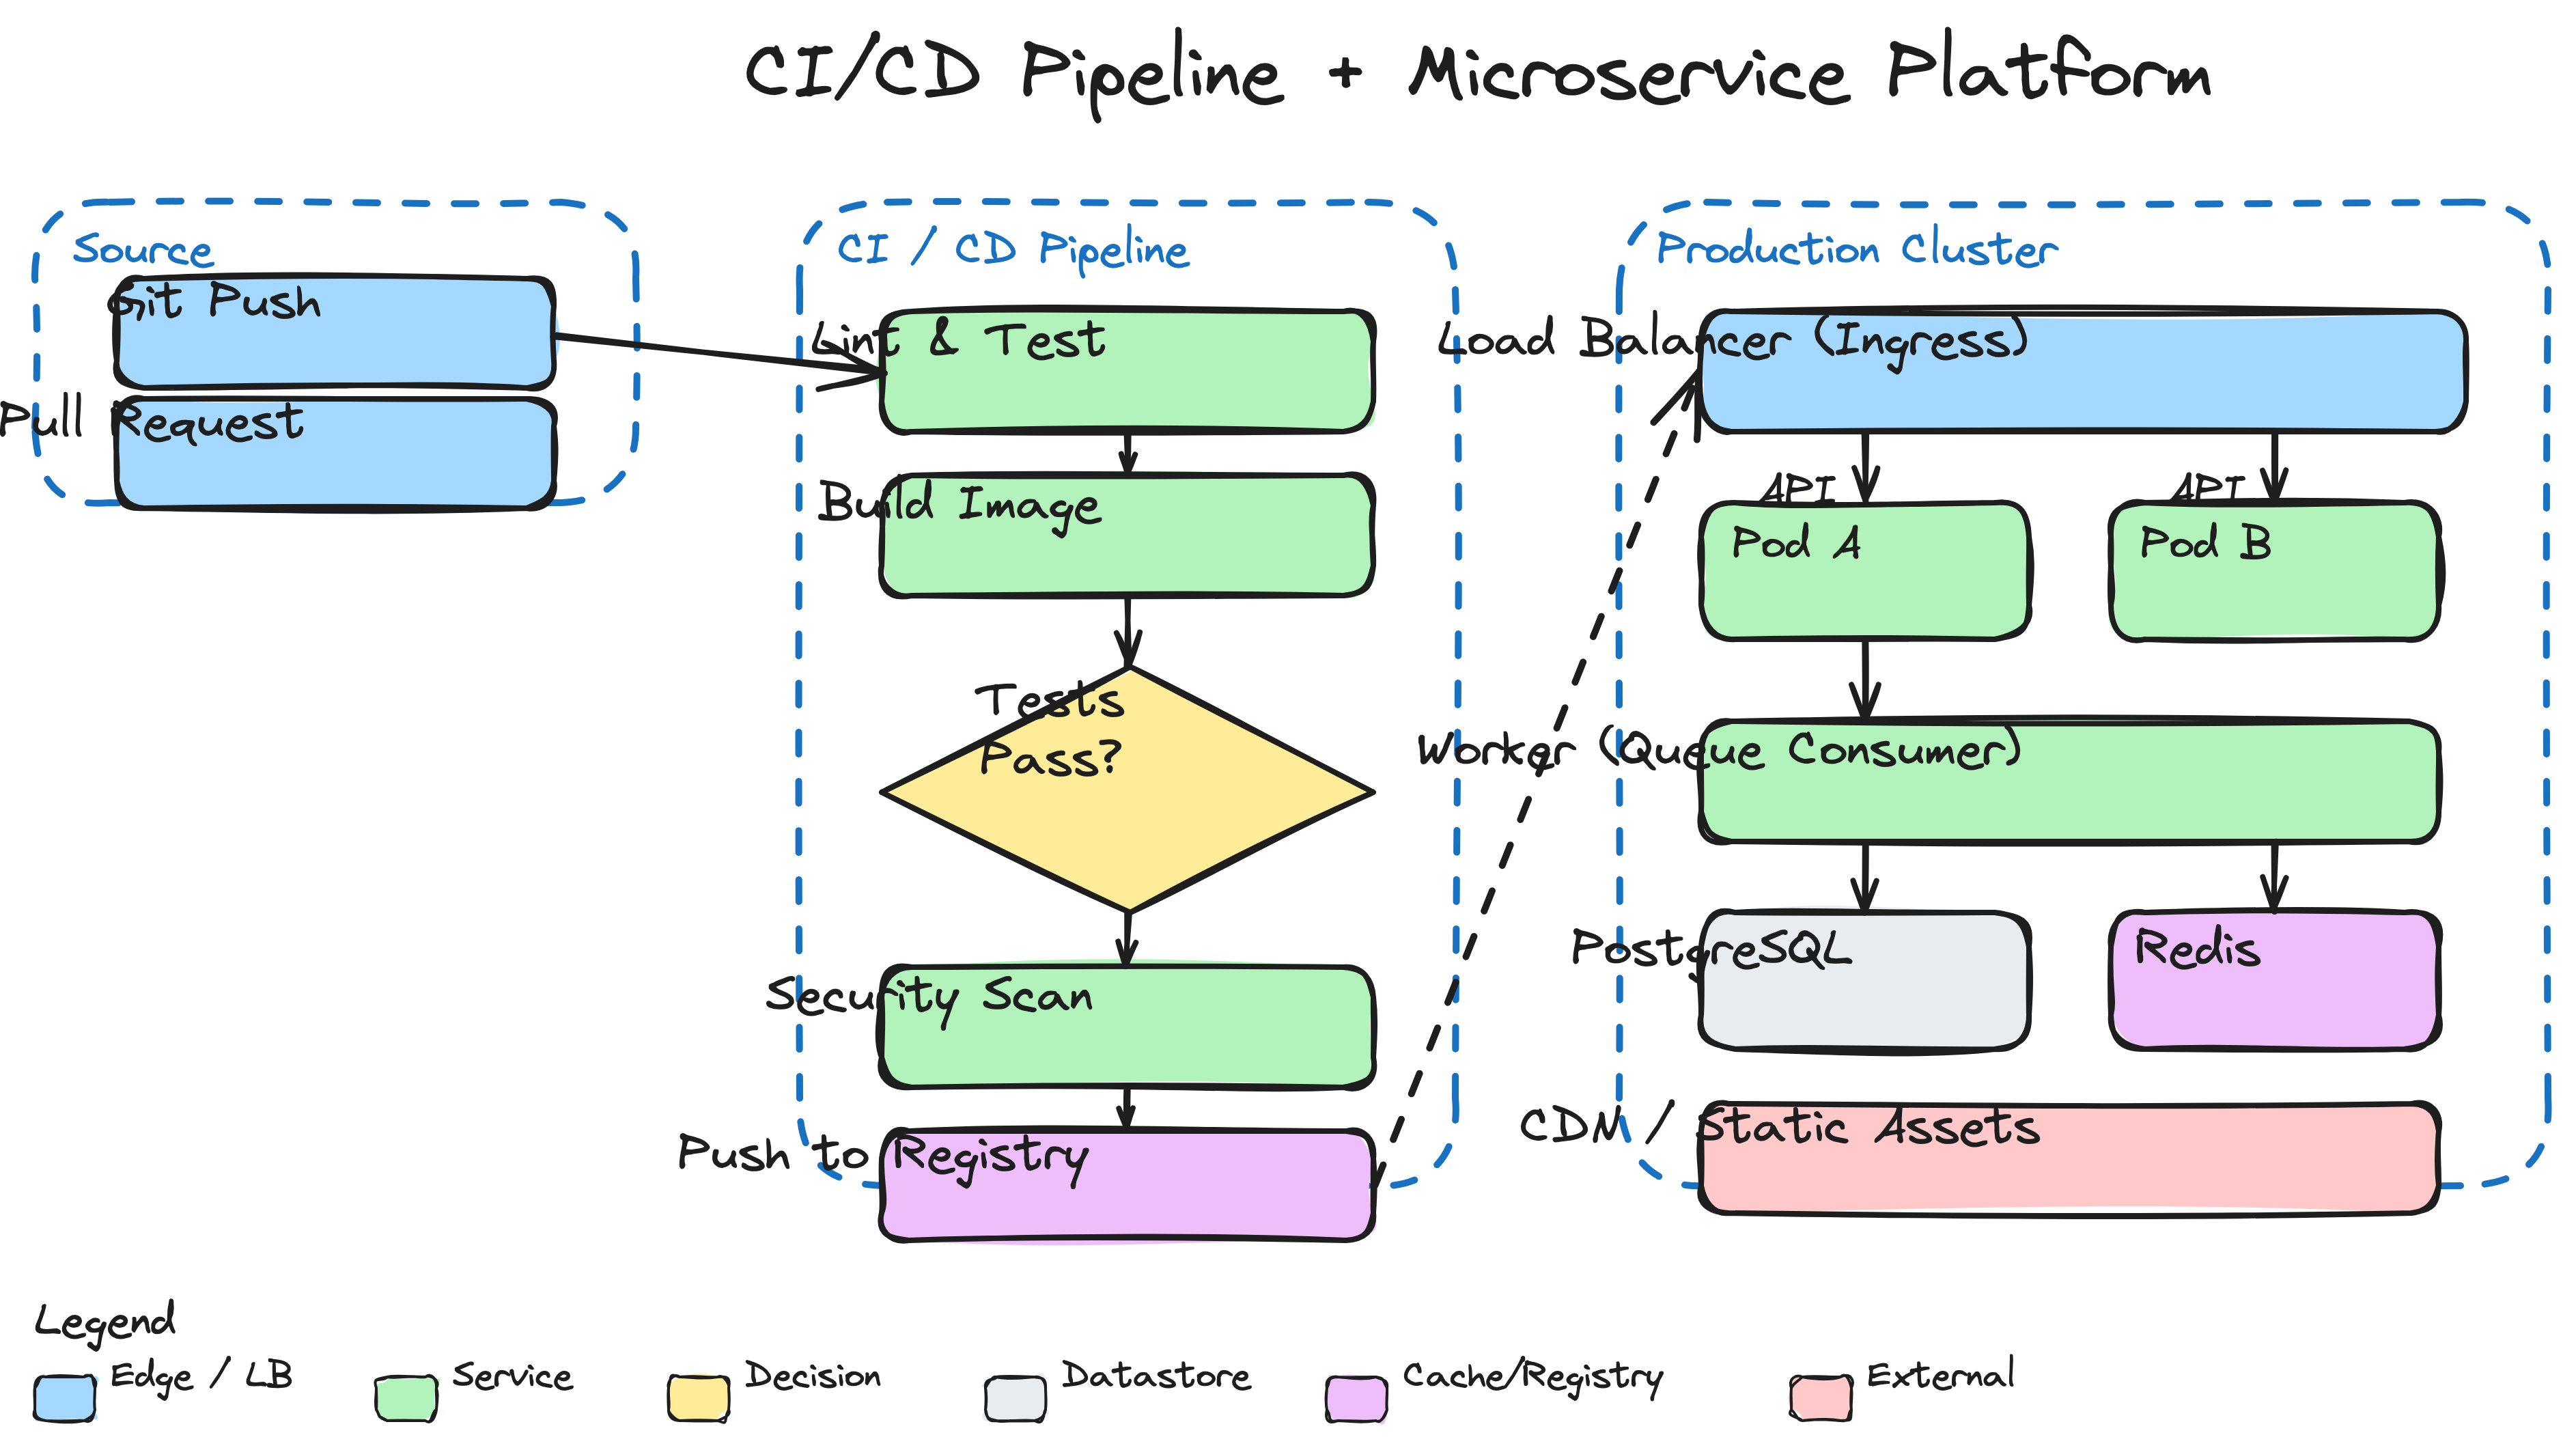
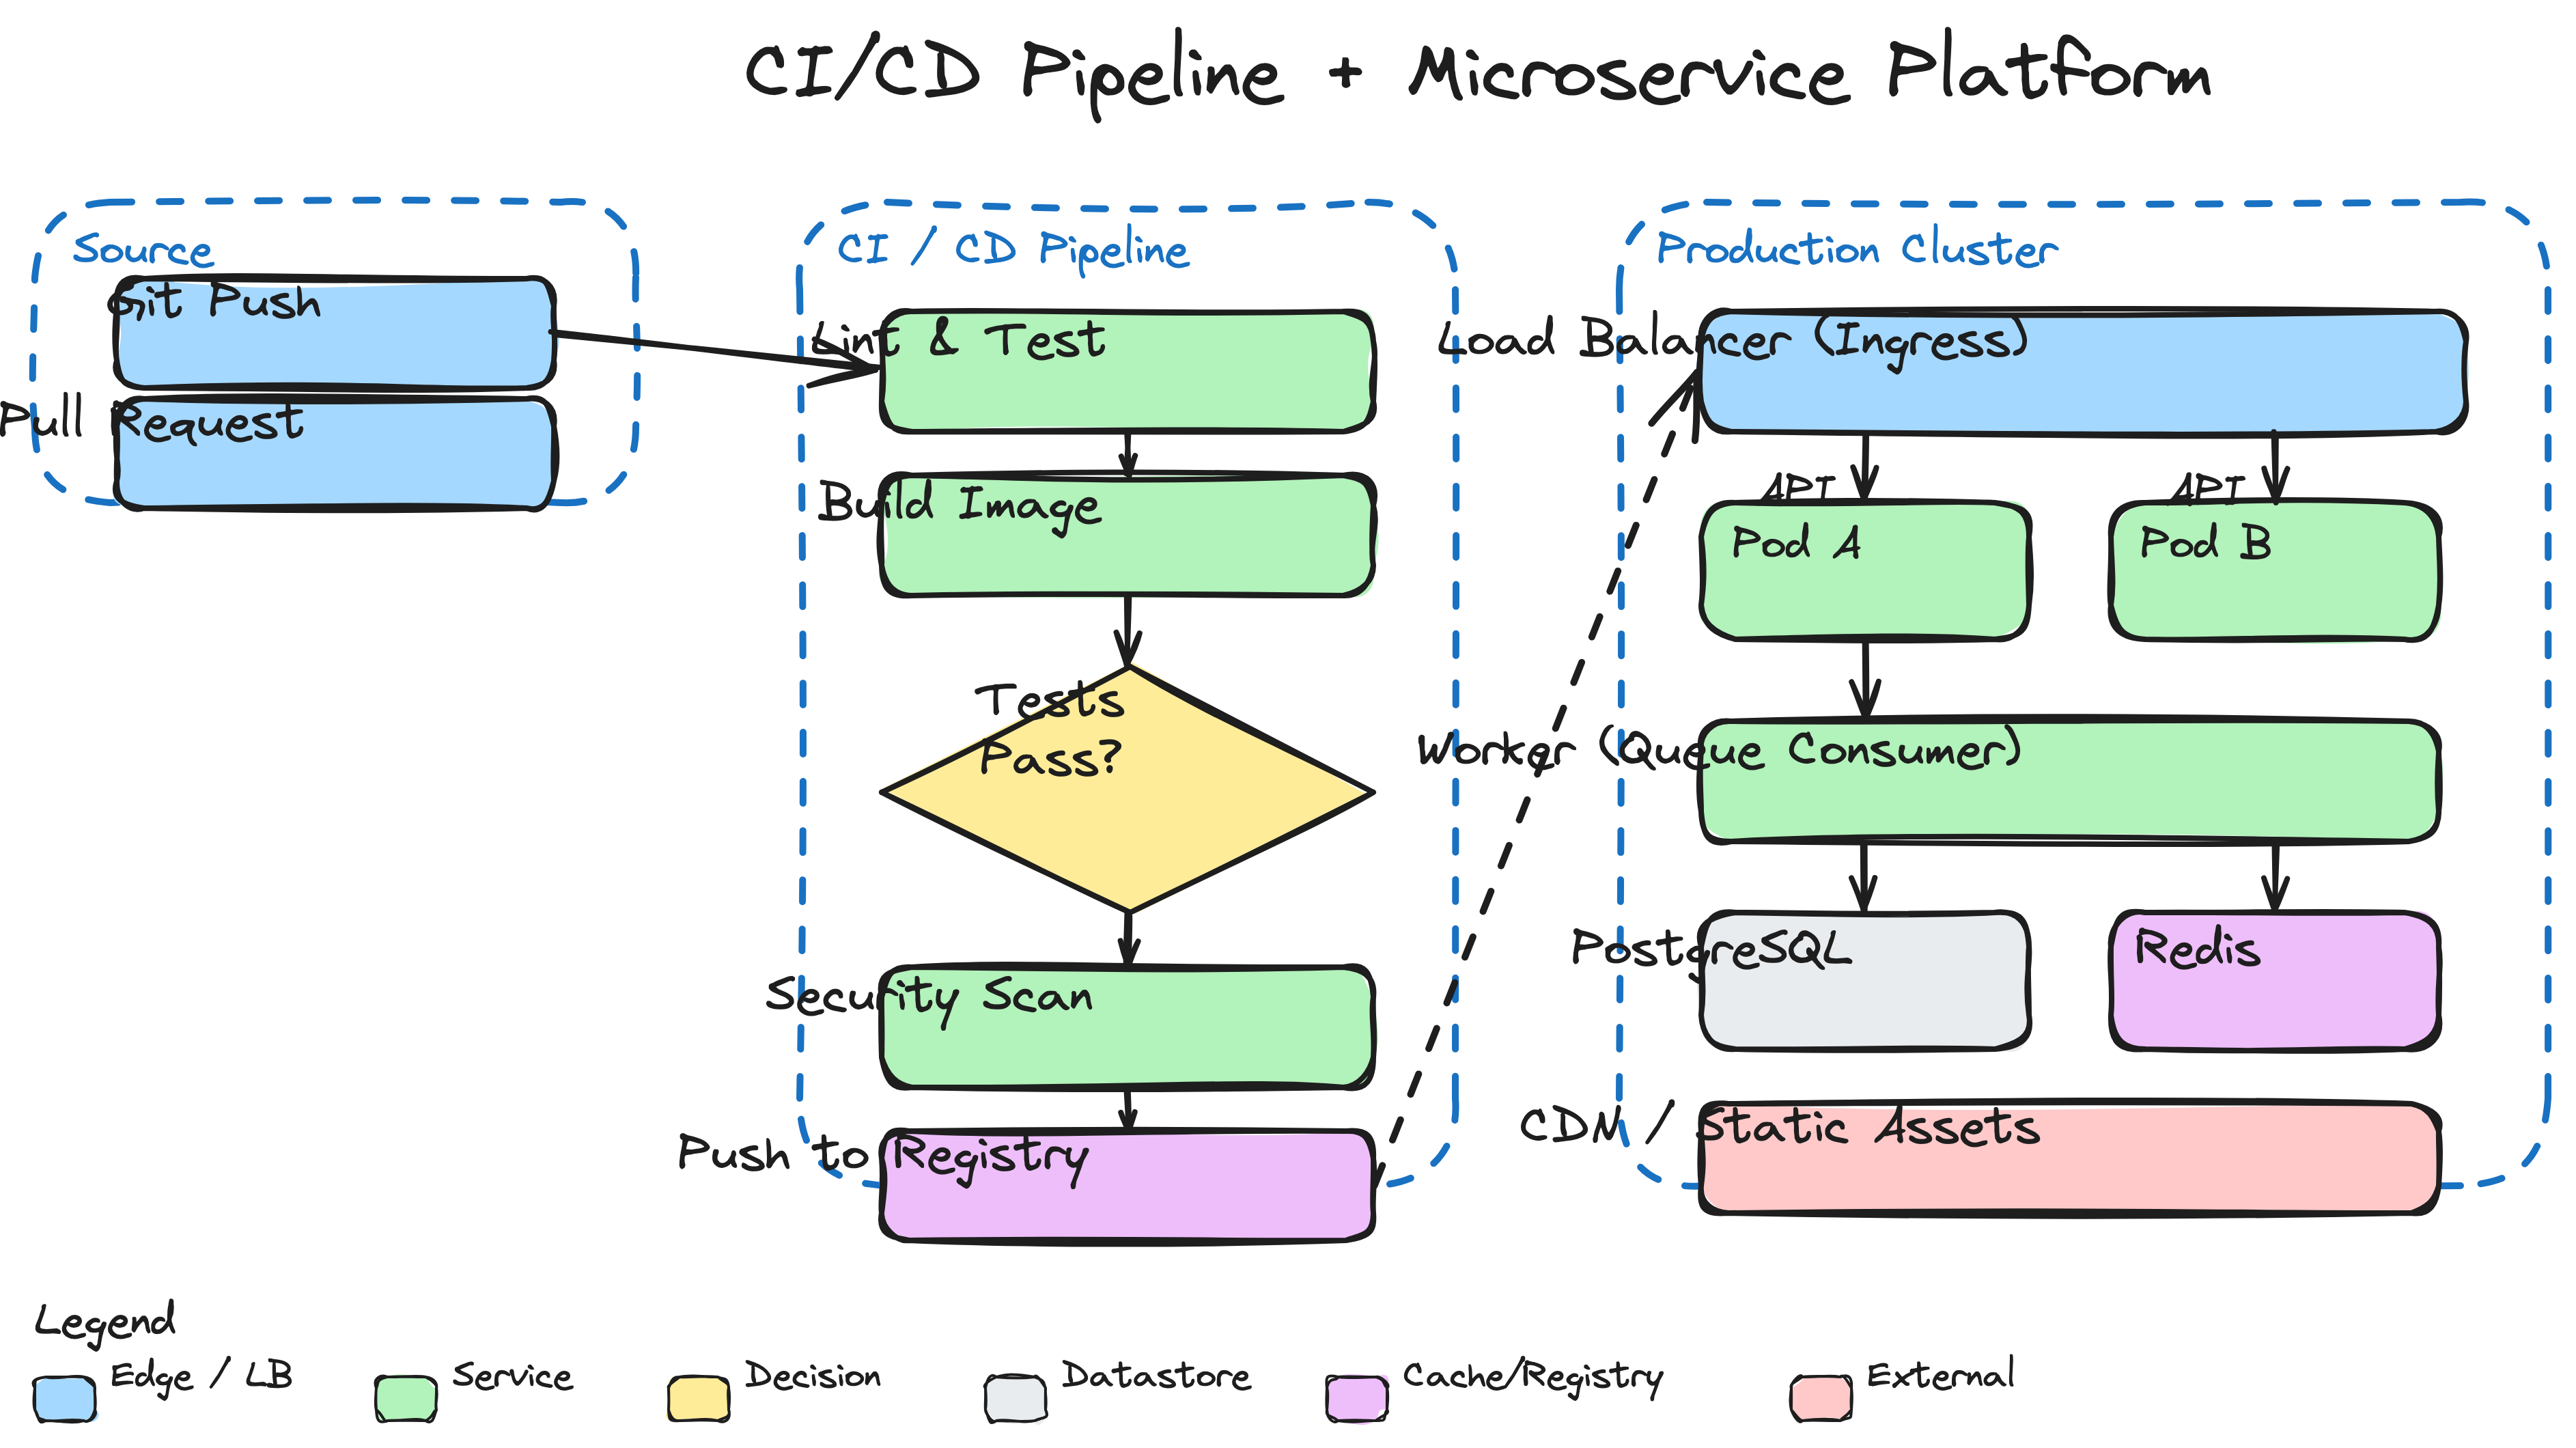
docs: AGENTS.md + per-agent install guide
- AGENTS.md: repo guide for agents working here (layout, the 4
  load-bearing rendering facts, test command).
- README install section: document the interactive agent picker and
  the --agent flag (72 agents supported), with a directory table.

diff --git a/skills/excalidraw/scripts/render_template.html b/skills/excalidraw/scripts/render_template.html
@@ -49,91 +49,80 @@
     /**
      * Render an Excalidraw scene to an <svg> element appended to #root.
      *
-     * The scene is passed as a single object { elements, appState, files } and
-     * run through Excalidraw's `restore()` first, which normalizes the data
-     * (fills missing fields like index/frameId that the renderer requires).
-     * Then exportToSvg is called with the OBJECT form
-     * {elements, appState, files} — verified against @excalidraw/excalidraw
-     * 0.18: the positional form silently produces an empty 40x40 canvas.
+     * Uses TWO-PASS rendering to solve text centering, which is otherwise
+     * unsolvable in a headless environment:
      *
-     * Returns { success, error, width, height }.
+     * The Excalidraw hand-drawn font "Virgil" is NOT available in the bare
+     * page (Chromium falls back to serif, which has completely different
+     * metrics). Excalidraw embeds Virgil as @font-face INSIDE exported SVGs,
+     * but only at export time. So any text measurement done before export is
+     * wrong, and exportToSvg trusts the stored text x/y/width/height as-is —
+     * leading to off-center labels.
+     *
+     * PASS 1 (probe): export once. Extract the @font-face from the result,
+     * inject it into the page, and load the font. Now the page really has Virgil.
+     *
+     * PASS 2 (measure + re-export): measure every bound text label's real
+     * pixel width via getBoundingClientRect using the now-loaded Virgil, write
+     * back exactly-centered x/y/width/height, then export again.
      */
     window.renderDiagram = async function (scene) {
       try {
         await window.__excalReady;
 
         const excal = window.__excal;
-        // restore() is the official "recover from persisted data" path; it
-        // fills in fields the export path needs. Without it, elements missing
-        // index/frameId render as nothing.
         let normalized;
         try {
           normalized = excal.restore(scene, null);
         } catch (e) {
-          // restore is picky; if it fails, fall back to raw scene.
           normalized = { elements: scene.elements, appState: scene.appState, files: scene.files };
         }
 
-        // convertToExcalidrawElements re-validates the elements and, crucially,
-        // recomputes text metrics (width/height) from the actual text content
-        // and font. Hand-authored text elements often carry wrong or stale
-        // metrics, which makes exportToSvg silently drop them. Running this
-        // conversion is what makes text appear in the output.
-        let elements = normalized.elements;
+        // convertToExcalidrawElements re-validates elements and recomputes text
+        // metrics; without it, hand-authored text with stale/missing fields is
+        // silently dropped by exportToSvg.
         if (typeof excal.convertToExcalidrawElements === "function") {
           try {
-            elements = excal.convertToExcalidrawElements(normalized.elements);
-          } catch (e) {
-            // fall back to restored elements
-          }
-        }
-
-        // Precisely re-center every bound text label inside its container.
-        // Hand-authored scenes (and our own generator) cannot know the exact
-        // pixel width of text in the Virgil font, so the stored x/y/width/height
-        // of bound text are usually wrong, and exportToSvg trusts them as-is.
-        // We measure each label with the real font and write back an exact
-        // centered position. fontFamily 1 = Virgil, 2 = Helvetica, etc.
-        try {
-          const canvas = document.createElement("canvas");
-          const ctx = canvas.getContext("2d");
-          const byId = new Map(elements.map((e) => [e.id, e]));
-          for (const t of elements) {
-            if (t.type !== "text" || !t.containerId) continue;
-            const box = byId.get(t.containerId);
-            if (!box) continue;
-            const fontName =
-              t.fontFamily === 2 ? "Helvetica" :
-              t.fontFamily === 3 ? "Cascadia, monospace" : "Virgil";
-            ctx.font = t.fontSize + "px " + fontName;
-            const lines = (t.text || "").split("\n");
-            const lh = t.lineHeight || 1.25;
-            const w = Math.max(...lines.map((l) => ctx.measureText(l).width));
-            const h = t.fontSize * lh * lines.length;
-            t.width = w;
-            t.height = h;
-            t.x = box.x + (box.width - w) / 2;
-            // Virgil (and similar hand-drawn fonts) render with a large
-            // ascender and small descender, so the geometric box-center of
-            // the text block looks too high. Nudge down by ~25% of the font
-            // size to land the visual baseline on center.
-            t.y = box.y + (box.height - h) / 2 + t.fontSize * 0.25;
-          }
-        } catch (e) {
-          // measurement best-effort; ignore failures
+            normalized.elements = excal.convertToExcalidrawElements(normalized.elements);
+          } catch (e) {}
         }
 
         const appState = Object.assign(
           { exportBackground: true, exportWithDarkMode: false, viewBackgroundColor: "#ffffff" },
           normalized.appState || {}
         );
-
-        // OBJECT form — do NOT switch to positional args; they break in 0.18.
-        const svg = await excal.exportToSvg({
-          elements: elements,
+        const exportOpts = {
+          elements: normalized.elements,
           appState: appState,
           files: normalized.files || {},
-        });
+        };
+
+        // ---- PASS 1: probe export to obtain the embedded Virgil @font-face ----
+        // Excalidraw ships the Virgil font ONLY inside exported SVGs. In the
+        // bare page it is unavailable, so any width measurement falls back to
+        // serif (wrong metrics). We export once, rip the @font-face out, inject
+        // it into the page, and load it — so the page now really has Virgil.
+        const probeSvg = await excal.exportToSvg(exportOpts);
+        const probeStr = new XMLSerializer().serializeToString(probeSvg);
+        const fontFaceMatches = probeStr.match(/@font-face\s*\{[^}]+\}/g) || [];
+        if (fontFaceMatches.length) {
+          const style = document.createElement("style");
+          style.textContent = fontFaceMatches.join("\n");
+          document.head.appendChild(style);
+          try {
+            await document.fonts.load("1px Virgil");
+            await document.fonts.ready;
+          } catch (e) {}
+        }
+
+        // ---- PASS 2: final export, then fix text centering on the SVG DOM ----
+        // exportToSvg computes text x/y itself and IGNORES any coordinates we
+        // set on the scene elements (verified: setting text.x to 50/200/500
+        // all yield the same output). It computes them with an internal font
+        // width estimate that does NOT match real Virgil, so bound labels end
+        // up off-center. The only layer where we can correct this is the SVG
+        // DOM AFTER export — move each <text> to the center of its container.
+        const svg = await excal.exportToSvg(exportOpts);
 
         if (!svg || svg.tagName.toLowerCase() !== "svg") {
           throw new Error(
@@ -142,17 +131,50 @@
           );
         }
 
+        // Temporarily attach the SVG to the document so getBBox() works (it
+        // needs a rendered/layout context; detached SVG elements return 0).
         const root = document.getElementById("root");
         root.innerHTML = "";
         root.appendChild(svg);
 
+        // Build a list of container shapes (rect + the bbox of each hand-drawn
+        // path) so we can find which shape each text belongs to.
+        // Excalidraw renders boxes as <path> (rough.js) and plain rects as
+        // <rect>. We approximate a shape's box by its bounding box.
+        const shapes = [];
+        for (const node of svg.querySelectorAll("rect, path, ellipse, polygon")) {
+          try {
+            const bb = node.getBBox();
+            if (bb.width > 40 && bb.height > 20) {
+              shapes.push({ x: bb.x, y: bb.y, w: bb.width, h: bb.height, cx: bb.x + bb.width / 2, cy: bb.y + bb.height / 2 });
+            }
+          } catch (e) {}
+        }
+
+        for (const textEl of svg.querySelectorAll("text")) {
+          const fs = parseFloat(textEl.getAttribute("font-size") || "18");
+          // The text's current x (exportToSvg's wrong guess, anchor=middle so
+          // x is the text center) and y (baseline).
+          let cx = parseFloat(textEl.getAttribute("x"));
+          let cy = parseFloat(textEl.getAttribute("y")) - fs * 0.35; // baseline -> approx visual center
+          // Find the smallest shape whose center is closest to (cx, cy) and
+          // that actually contains this point — that is the label's container.
+          let best = null;
+          for (const s of shapes) {
+            const inside = cx >= s.x - 5 && cx <= s.x + s.w + 5 && cy >= s.y - 5 && cy <= s.y + s.h + 5;
+            if (!inside) continue;
+            const d = Math.hypot(cx - s.cx, cy - s.cy);
+            if (!best || d < best.d) best = { d, s };
+          }
+          if (!best) continue;
+          // Re-center: text-anchor=middle so x = box center; y baseline = box center + ~0.35*fs
+          textEl.setAttribute("x", best.s.cx);
+          textEl.setAttribute("y", best.s.cy + fs * 0.35);
+        }
+
         window.__lastSvg = new XMLSerializer().serializeToString(svg);
 
-        return {
-          success: true,
-          width: svg.getAttribute("width"),
-          height: svg.getAttribute("height"),
-        };
+        return { success: true, width: svg.getAttribute("width"), height: svg.getAttribute("height") };
       } catch (err) {
         return { success: false, error: String(err && err.message ? err.message : err) };
       }

diff --git a/AGENTS.md b/AGENTS.md
@@ -1,0 +1,54 @@
+# AGENTS.md
+
+Guidance for AI coding agents (Claude Code, Cursor, Copilot, ZCode, etc.) working in this repository.
+
+## What this repo is
+
+A single agent skill — `excalidraw` — that renders hand-drawn style diagrams using the real Excalidraw engine. It is distributed via the [skills](https://github.com/vercel-labs/skills) ecosystem (`npx skills add xiaoshuai1024/excalidraw-skill`) and installs into 70+ different agents' skill directories automatically.
+
+## Repository layout
+
+```
+skills/excalidraw/        # the skill itself (this is what skills CLI installs)
+  SKILL.md                # agent-facing instructions: when to use, how to build a scene
+  scripts/
+    render.py             # the renderer — the core of the skill
+    render_template.html  # browser page that loads Excalidraw and exports to SVG
+    install.sh            # one-time dependency installer (playwright + chromium)
+  references/
+    element-templates.md  # JSON templates for each element type
+    examples/             # working .excalidraw scenes + a generator script
+test/render.test.mjs      # integration tests (run: node test/render.test.mjs)
+assets/diagram.{svg,png}  # rendered example shown in the README
+```
+
+The skill lives entirely under `skills/excalidraw/`. The repo root holds metadata, docs, tests, and rendered assets — none of it is installed into agents.
+
+## How rendering works (important context)
+
+`render.py` drives headless Chromium (via Playwright) which loads the official `@excalidraw/excalidraw` package from the esm.sh CDN and calls `exportToSvg`. This is NOT a reimplementation of Excalidraw — it uses the real engine, so the hand-drawn look (rough.js jitter, Virgil font) is identical to excalidraw.com.
+
+Key technical facts (these are non-obvious and load-bearing — do not "simplify" them without testing):
+
+1. **esm.sh URL must use `?bundle`** — without it, Excalidraw's many sub-imports become dozens of cascading CDN requests that blow past any timeout.
+2. **`exportToSvg` takes an OBJECT** `{elements, appState, files}`, not positional args. Positional args silently return an empty 40x40 canvas in Excalidraw 0.18.
+3. **`restore()` + `convertToExcalidrawElements()` are required** before export — hand-authored scenes miss fields the renderer needs, and text elements get dropped without this normalization.
+4. **The Virgil font only exists inside exported SVGs** — it is not available in the bare page. `measureText` in the page falls back to serif (wrong metrics). Any text-positioning logic must account for this.
+
+## Testing changes
+
+```bash
+node test/render.test.mjs
+```
+
+11 integration tests, fail-fast. They invoke `render.py` as a subprocess and assert on exit codes, output files, and SVG content. **Run these after any change to `render_template.html` or `render.py`** — the rendering pipeline is fragile and a "harmless" edit can silently break text rendering or produce an empty canvas.
+
+## Making changes
+
+- Edits to the skill go under `skills/excalidraw/`. Do not put skill code at the repo root.
+- After editing, re-render the README example so `assets/diagram.{svg,png}` stays current:
+  ```bash
+  python3 skills/excalidraw/scripts/render.py skills/excalidraw/references/examples/cicd-microservice.excalidraw --output assets/diagram
+  ```
+- The `.excalidraw` example files have `seed: null` — the renderer injects random seeds. Do not hardcode seeds in examples.
+- Keep the SKILL.md generic — no project/brand-specific colors or examples.

diff --git a/README.md b/README.md
@@ -23,13 +23,38 @@
 
 ## 安装
 
-一行命令，通过 [vercel-labs/skills](https://github.com/vercel-labs/skills) 的通用 skill 安装器（支持 Claude Code、ZCode、OpenCode、Cursor 等 70+ 种 agent）：
+通过 [vercel-labs/skills](https://github.com/vercel-labs/skills) 的通用 skill 安装器，支持 **72 种 agent**（Claude Code、Cursor、ZCode、OpenCode、Copilot、Gemini CLI、Windsurf、Cline 等）：
 
 ```bash
 npx skills add xiaoshuai1024/excalidraw-skill
 ```
 
-它会把 skill 复制到你项目的 agent skills 目录（`.claude/skills/`、`.agents/skills/`、`.opencode/skills/` 等，按你用的 agent 自动适配）。
+运行后会**交互式让你选择装到哪些 agent**（空格勾选、回车确认）。也可以直接指定：
+
+```bash
+# 只装到 Claude Code
+npx skills add xiaoshuai1024/excalidraw-skill --agent claude
+
+# 装到多个 agent
+npx skills add xiaoshuai1024/excalidraw-skill --agent claude,cursor,opencode
+
+# 装到所有 72 种 agent
+npx skills add xiaoshuai1024/excalidraw-skill --agent '*'
+
+# 跳过确认，自动检测（项目内装项目级，否则全局）
+npx skills add xiaoshuai1024/excalidraw-skill -y
+```
+
+它会自动把 skill 放到对应 agent 的约定目录：
+
+| Agent | 安装目录 |
+|-------|---------|
+| 通用（默认包含） | `.agents/skills/excalidraw` |
+| Claude Code | `.claude/skills/excalidraw` |
+| Cursor | `.cursor/skills/excalidraw` |
+| OpenCode | `.opencode/skills/excalidraw` |
+| Copilot / Gemini CLI | `skills/excalidraw` |
+| 其他 60+ 种 | 各自的约定目录（安装器自动处理） |
 
 首次渲染前装一下渲染依赖（Playwright + Chromium，一次性）：
 